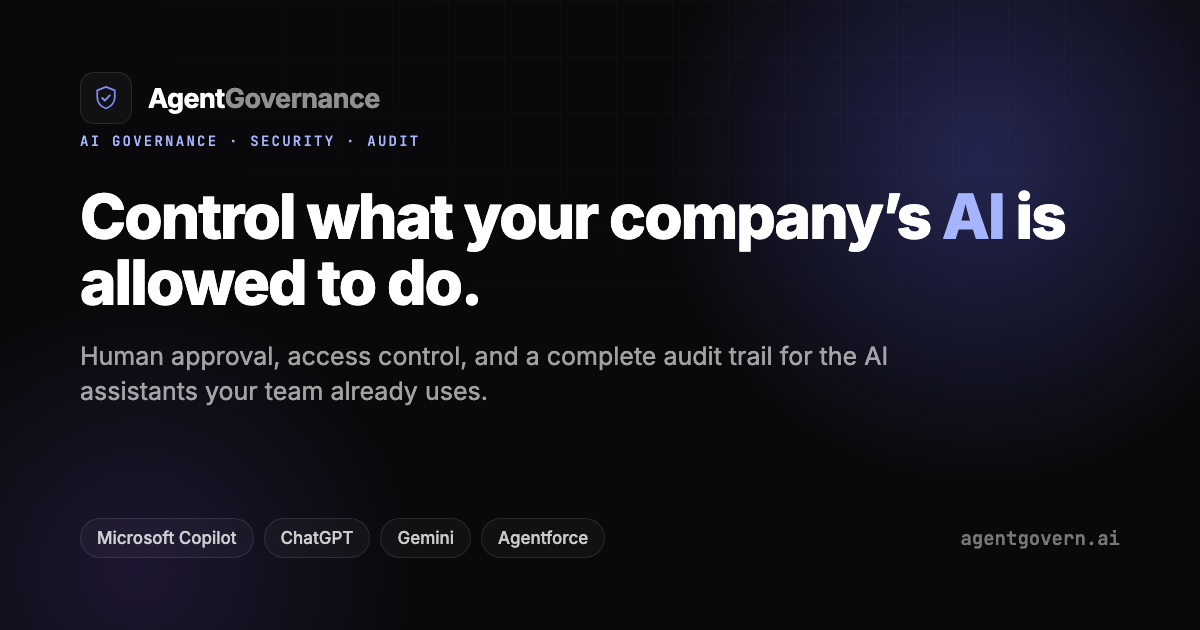
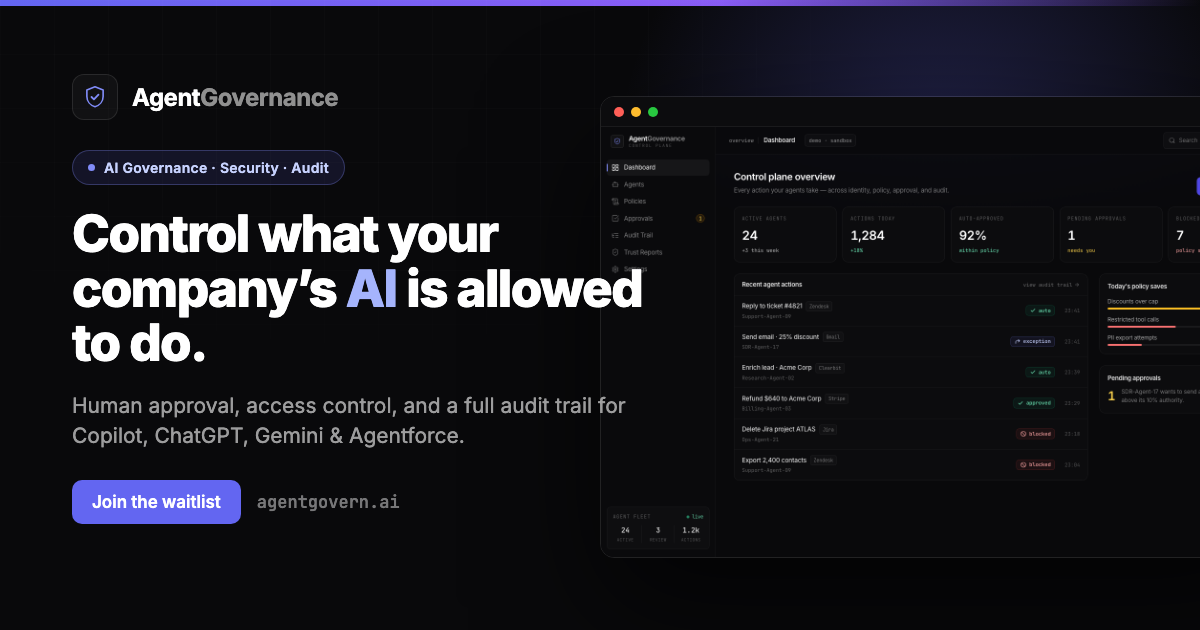
Improve OG share card (product screenshot + CTA); trim title/description for social/SEO

diff --git a/lib/site.ts b/lib/site.ts
@@ -7,11 +7,10 @@ export const SITE = {
   name: "AgentGovernance",
   url: "https://agentgovern.ai",
   twitter: "@agentgovern",
-  title:
-    "AgentGovernance — AI governance between business AI tools and your company systems",
+  title: "AgentGovernance — AI governance for business AI tools",
   tagline: "Enterprise AI controls",
   description:
-    "Employees use Copilot, ChatGPT, and other AI assistants to access company systems and take real actions. AgentGovernance is the control layer that enforces business policies, requires human approval for risky moves, and keeps a complete AI audit trail.",
+    "Employees use Copilot, ChatGPT, and Gemini to act on company systems. AgentGovernance adds human approval, access control, and a full AI audit trail.",
 };
 
 /** Five-second clarity — what leadership needs to know. */